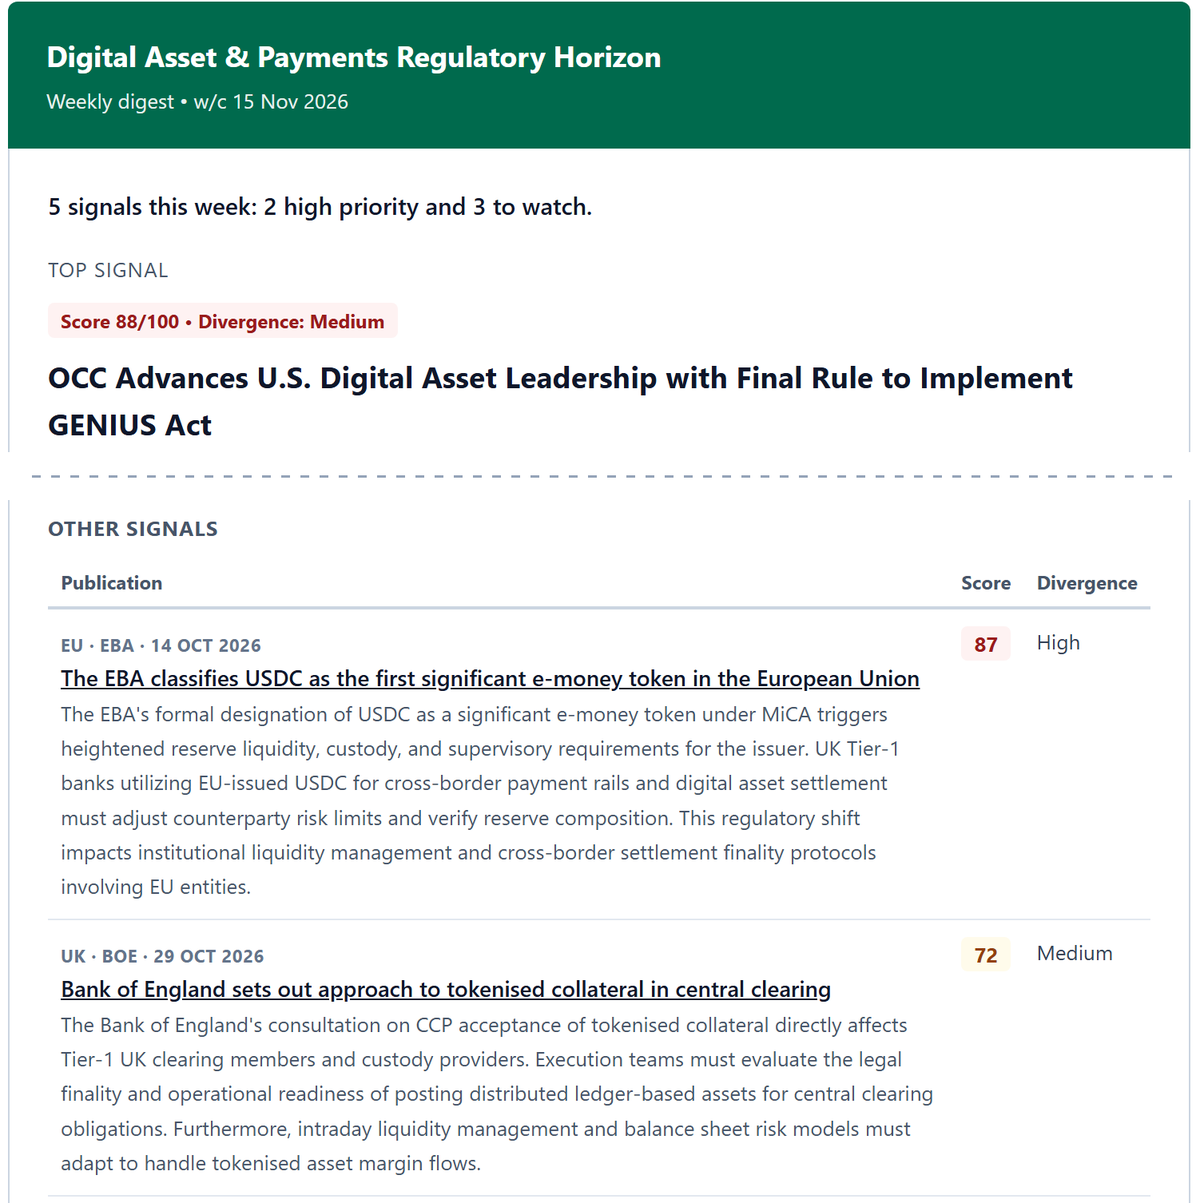
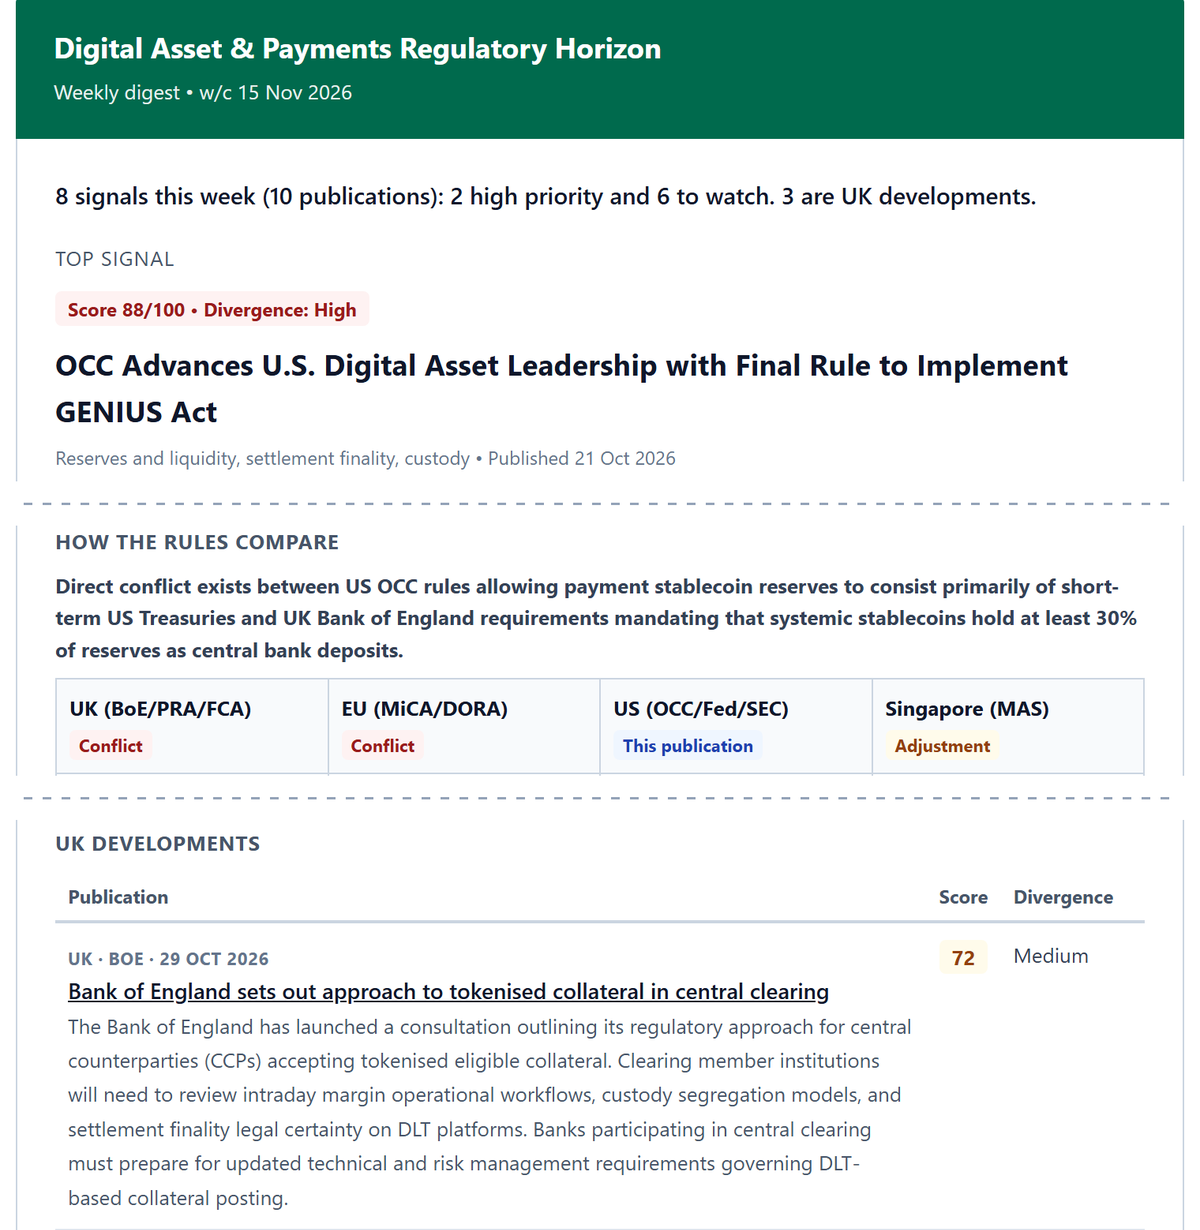
Explain the divergence assessment and show friction labels in the article
- Replace the one-line divergence definition with the three steps: find
  comparable rules (checked library plus recent UK publications), label
  each country (Conflict, Adjustment, Minor, Same rules, No evidence, in a
  table), and apply fixed rules (High needs a conflict with a final rule;
  proposals and commentary top out at Medium); note the consistency test
- Case study: USDC divergence is now Medium with the labels explained, and
  the OCC GENIUS rule shows why a final rule with conflicts is High
- Re-render the alert and digest images so the comparison tables show the
  labels; update the digest description to the current eight signals

Changed region(s): [[0.0308, 0.4306, 0.9558, 1.0], [0.0308, 0.1538, 0.8942, 0.3998], [0.0, 0.0, 1.0, 0.123]]

diff --git a/content/projects/regulatory-horizon-scanner/index.md b/content/projects/regulatory-horizon-scanner/index.md
@@ -60,11 +60,26 @@ Each item can receive two ratings.
 | 60–84 | Consultation, guidance or speech signalling a change | Divergence check, then the Monday digest |
 | Under 60 | Research, background or loosely related news | Logged, no email |
 
-**Divergence (High, Medium, Low or Aligned).** How far the same requirement differs across the UK, EU, US and Singapore. High means an arrangement that passes in one country would fail in another. Only items scoring 60 or more are checked.
+**Divergence (High, Medium, Low or Aligned).** How far the same requirement differs across the UK, EU, US and Singapore. Only items scoring 60 or more are checked, in three steps.
 
-**When an alert fires.** An impact score of 85 or more, or High divergence at any score from 60 up. A large gap between countries can matter as much as the rule itself.
+1. **Find the comparable rules.** The scanner searches a library of about 30 rule summaries, each written from and checked against the regulator's own text, and takes the closest for each country. It also draws on recent UK publications it has already scored, so the UK position stays current. Rules on a different subject are set aside.
+2. **Label each country.** Each country is judged on its own against the new publication and given one label:
 
-The ratings are judgements. Rerunning the same item can move its score by a point or two, so the bands are deliberately wide and every email links to the original publication.
+| Label | Meaning |
+|---|---|
+| Conflict | One arrangement cannot comply with both, for example incompatible mandatory reserve rules |
+| Adjustment | Both can be met, but only by changing processes, structures or thresholds |
+| Minor | Differences in detail, timing or reporting only |
+| Same rules | Materially the same requirement |
+| No evidence | Nothing relevant on file for that country |
+
+3. **Apply fixed rules.** Any Conflict makes divergence High, as long as the new publication is final. A proposal, speech or statement cannot create a binding conflict yet, so it tops out at Medium. Otherwise any Adjustment gives Medium, only Minor differences give Low, and Same rules everywhere gives Aligned.
+
+The labels appear in each email's comparison table, so the reason for a rating is visible at a glance. Because the rating follows from the labels rather than an overall judgement, the same evidence gives the same answer: in testing, three repeat runs agreed on all ten items, against six out of ten before.
+
+**When an alert fires.** An impact score of 85 or more, or High divergence: a conflict between a final rule and the rules elsewhere.
+
+The impact score is still a judgement and can move by a point or two between runs, so the bands are deliberately wide and every email links to the original publication.
 
 ---
 
@@ -78,19 +93,21 @@ On 14 October the European Banking Authority classified USDC as the first *signi
 
 **Impact score: 87.** A formal supervisory decision that changes how an issuer must hold its reserves sits in the top band. The scanner tagged it under reserves, custody, settlement and operational resilience.
 
-**Divergence: High.** Significant status under MiCA requires at least 60% of reserves to be held as deposits at commercial banks. The US GENIUS Act allows a stablecoin to be backed mainly by short-dated Treasury bills and repo. Singapore and the UK proposals each use a different mix again. A reserve structure built for the US would not meet the EU requirement.
+**Divergence: Medium.** Significant status under MiCA requires at least 60% of reserves to be held as bank deposits. The UK's final stablecoin rules ask for at least 5% in on-demand deposits, and US and Singapore rules lean on short-dated government debt. The UK, US and Singapore were each labelled Adjustment: a single reserve could meet the EU rule and theirs, but only with changes. With no outright conflict, divergence is Medium, and the alert came from the impact score.
 
-**Delivered.** A red alert that opens with the two ratings and the areas affected, then sets out the impact, compares the rules across the four jurisdictions, lists three checks for a second-line risk team and ends with a three-sentence summary ready for a risk committee paper.
+The OCC's final rule implementing the GENIUS Act shows the contrast. It was rated High, because the UK and EU columns are both Conflict: a reserve held mainly in US Treasuries cannot meet the Bank of England's requirement for at least 30% in central bank deposits, or MiCA's bank-deposit minimum.
 
-{{< figure src="feature.png" alt="Red alert email showing a score of 87 out of 100, high divergence, the areas affected, and the start of a UK, EU, US and Singapore comparison for the EBA's USDC decision" caption="The top of the red alert for the USDC decision." >}}
+**Delivered.** A red alert that opens with the two ratings and the areas affected, then sets out the impact, compares the rules across the four jurisdictions with each column's label, lists three checks for a second-line risk team and ends with a three-sentence summary ready for a risk committee paper.
+
+{{< figure src="feature.png" alt="Red alert email for the EBA's USDC decision showing a score of 87 out of 100, medium divergence, and a comparison table whose columns are labelled Adjustment for the UK, US and Singapore and This publication for the EU" caption="The top of the red alert for the USDC decision, with each column's label." >}}
 
 The same run looked at 291 feed entries, and 12 passed the filter. Two qualified as red alerts: this one and the OCC's final rule implementing the GENIUS Act. Three more scored between 60 and 84, including the Bank of England's approach to tokenised collateral in central clearing. The other seven were logged without an email.
 
 ### The Monday digest
 
-All five items scoring 60 or more went into the following Monday's digest. It opens with one line on the week, *"5 signals this week: 2 high priority and 3 to watch. 2 are UK developments."* The highest-scoring item follows in full, in the same format as an alert. The rest sit in two short tables, UK developments first and then international, each showing score, divergence and publication date. A UK consultation stays visible even in a week when a foreign rule scores higher, and the whole digest takes under a minute to read.
+By the following Monday, with the SEC, FinCEN, FSB and IOSCO feeds added, the digest held ten publications. It opens with one line on the week, *"8 signals this week (10 publications): 2 high priority and 6 to watch. 3 are UK developments."* The SEC's crypto custody proposal and two commissioners' statements on it count as one signal. The highest-scoring item follows in full, in the same format as an alert. The rest sit in two short tables, UK developments first and then international, each showing score, divergence and publication date. A UK consultation stays visible even in a week when a foreign rule scores higher, and the whole digest takes under a minute to read.
 
-{{< figure src="digest.png" alt="Weekly digest email: a one-line summary of five signals, the OCC GENIUS Act rule as the top signal, and a table listing the EBA USDC decision at 87 with high divergence and the Bank of England tokenised collateral paper at 72 with medium divergence" caption="An excerpt from the first Monday digest, before UK and international items were listed separately. The top signal's full detail is cut for length." >}}
+{{< figure src="digest.png" alt="Weekly digest email: a one-line summary of eight signals, the OCC GENIUS Act rule as the top signal with high divergence, its comparison table labelled Conflict for the UK and EU, This publication for the US and Adjustment for Singapore, and the start of the UK developments table" caption="An excerpt from the Monday digest. Dashed lines mark where longer sections are cut." >}}
 
 ---
 
